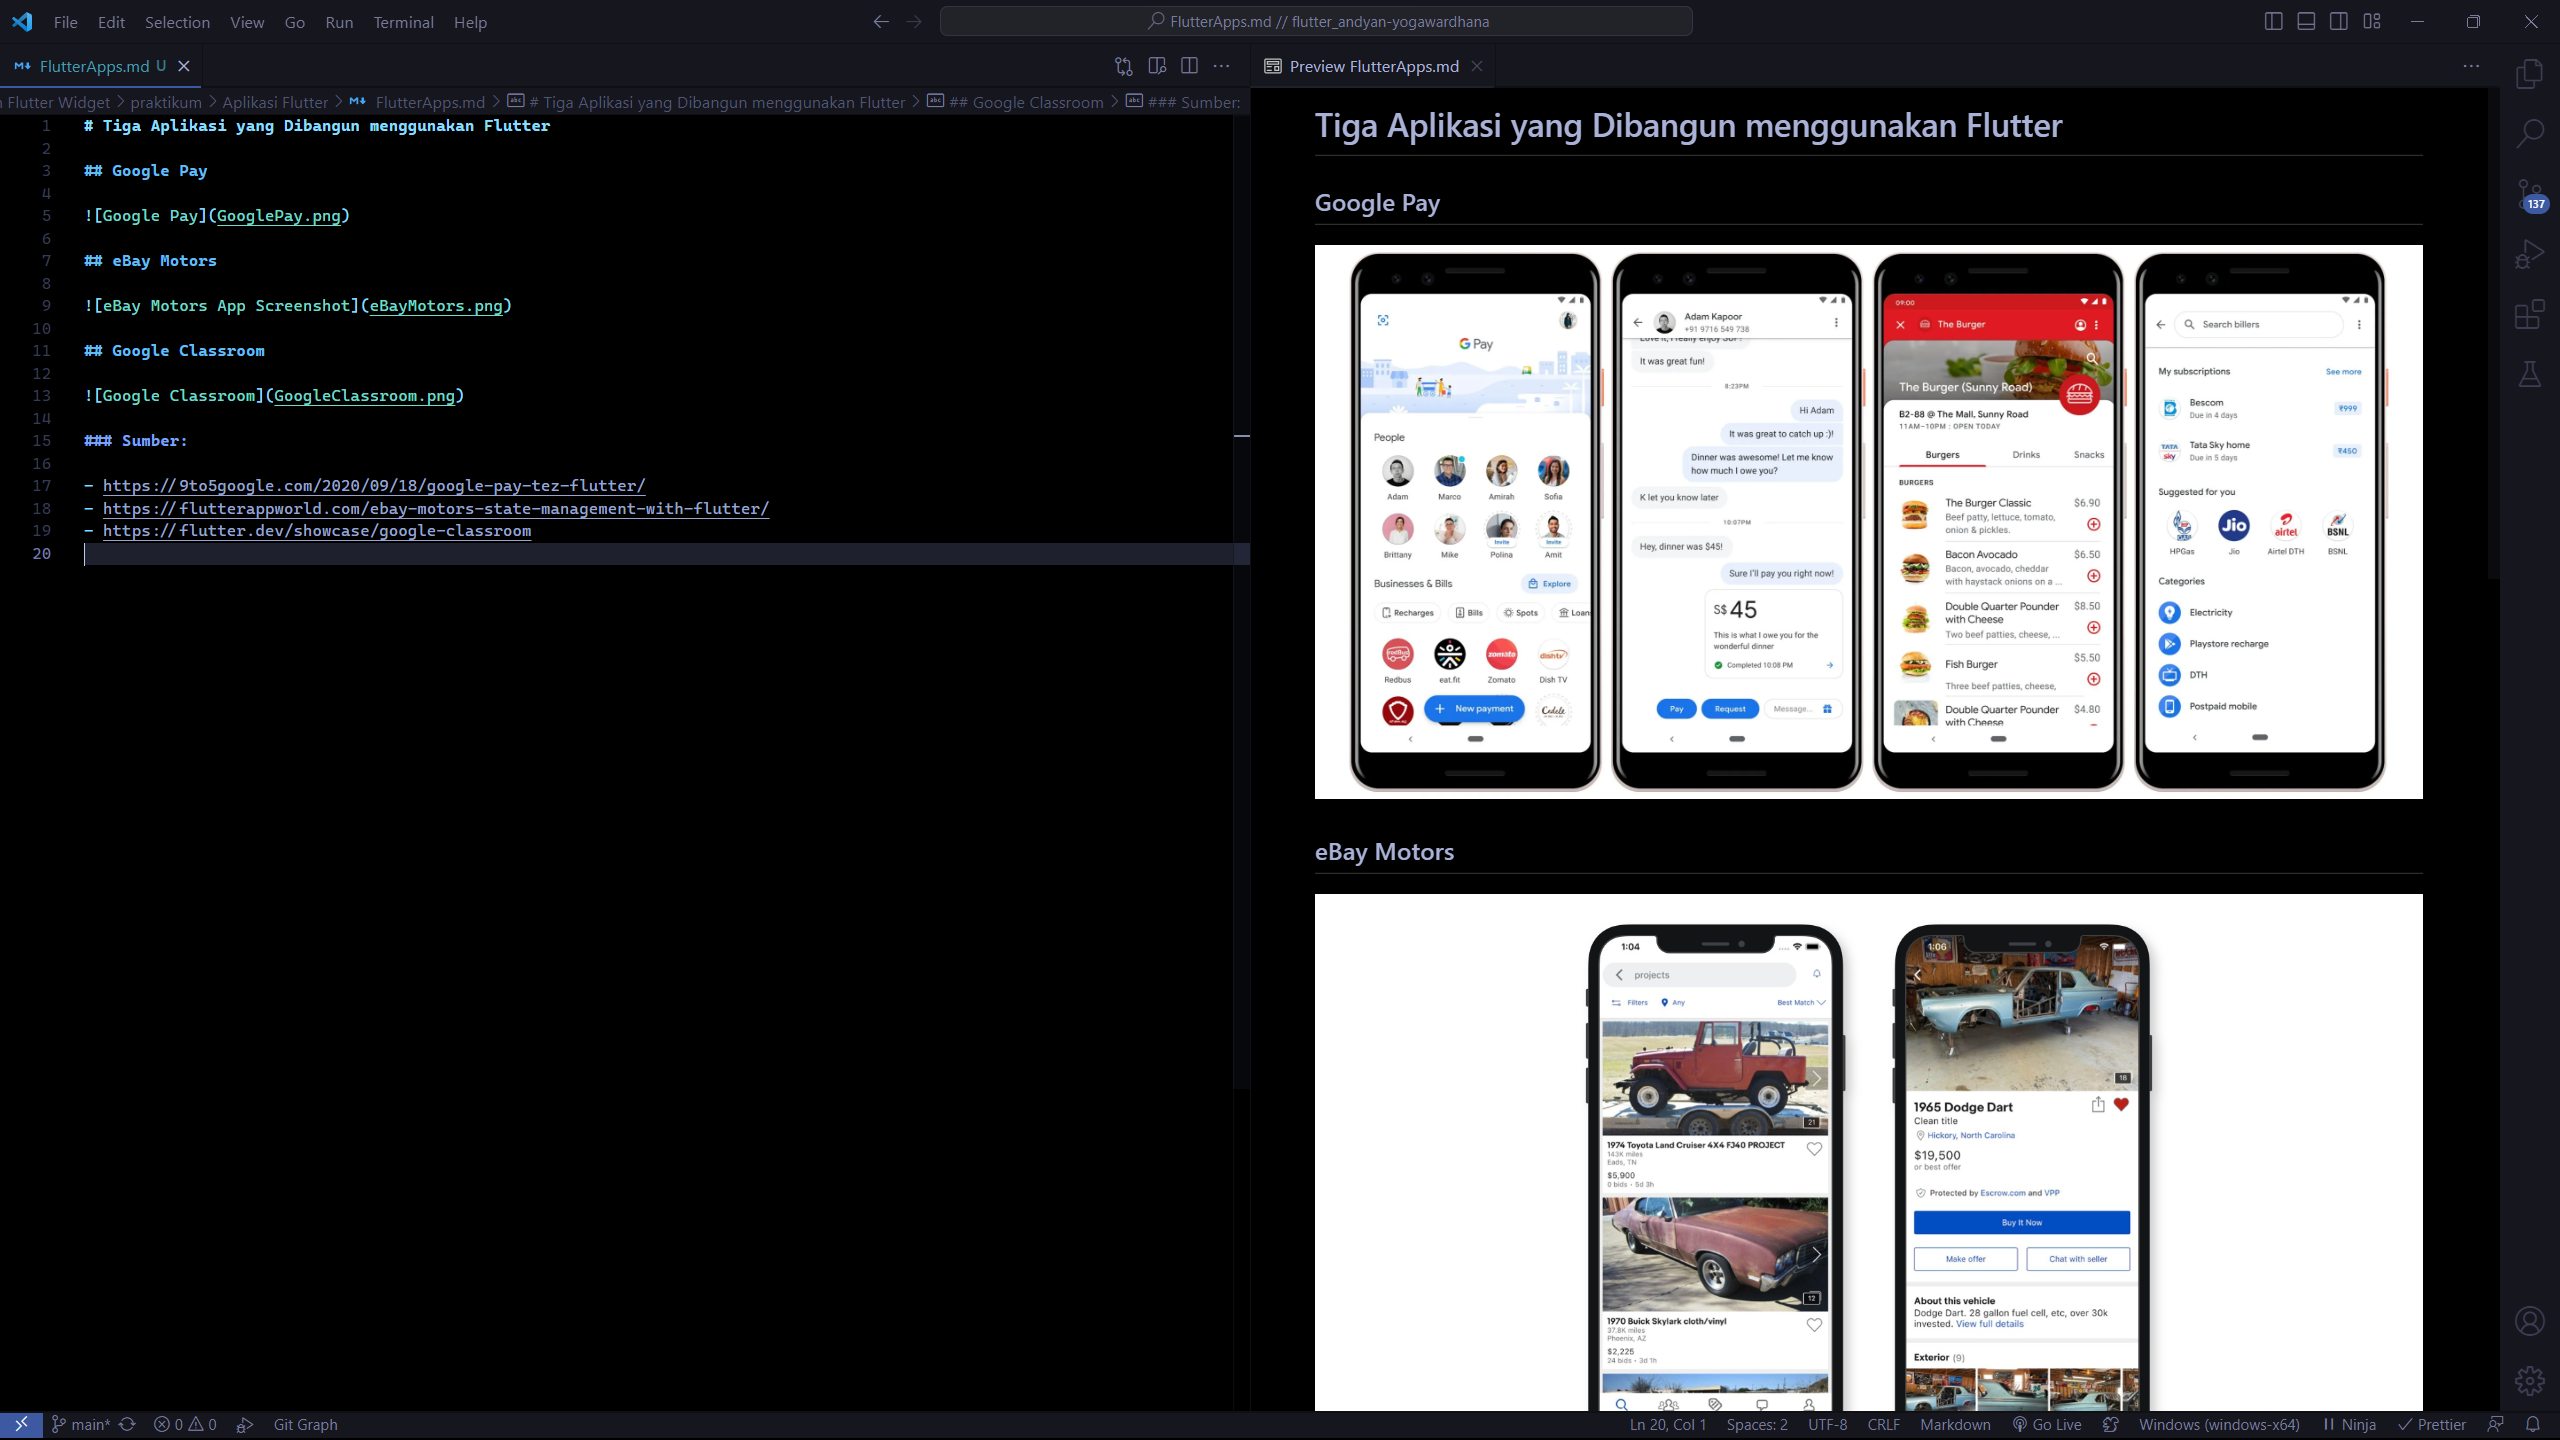
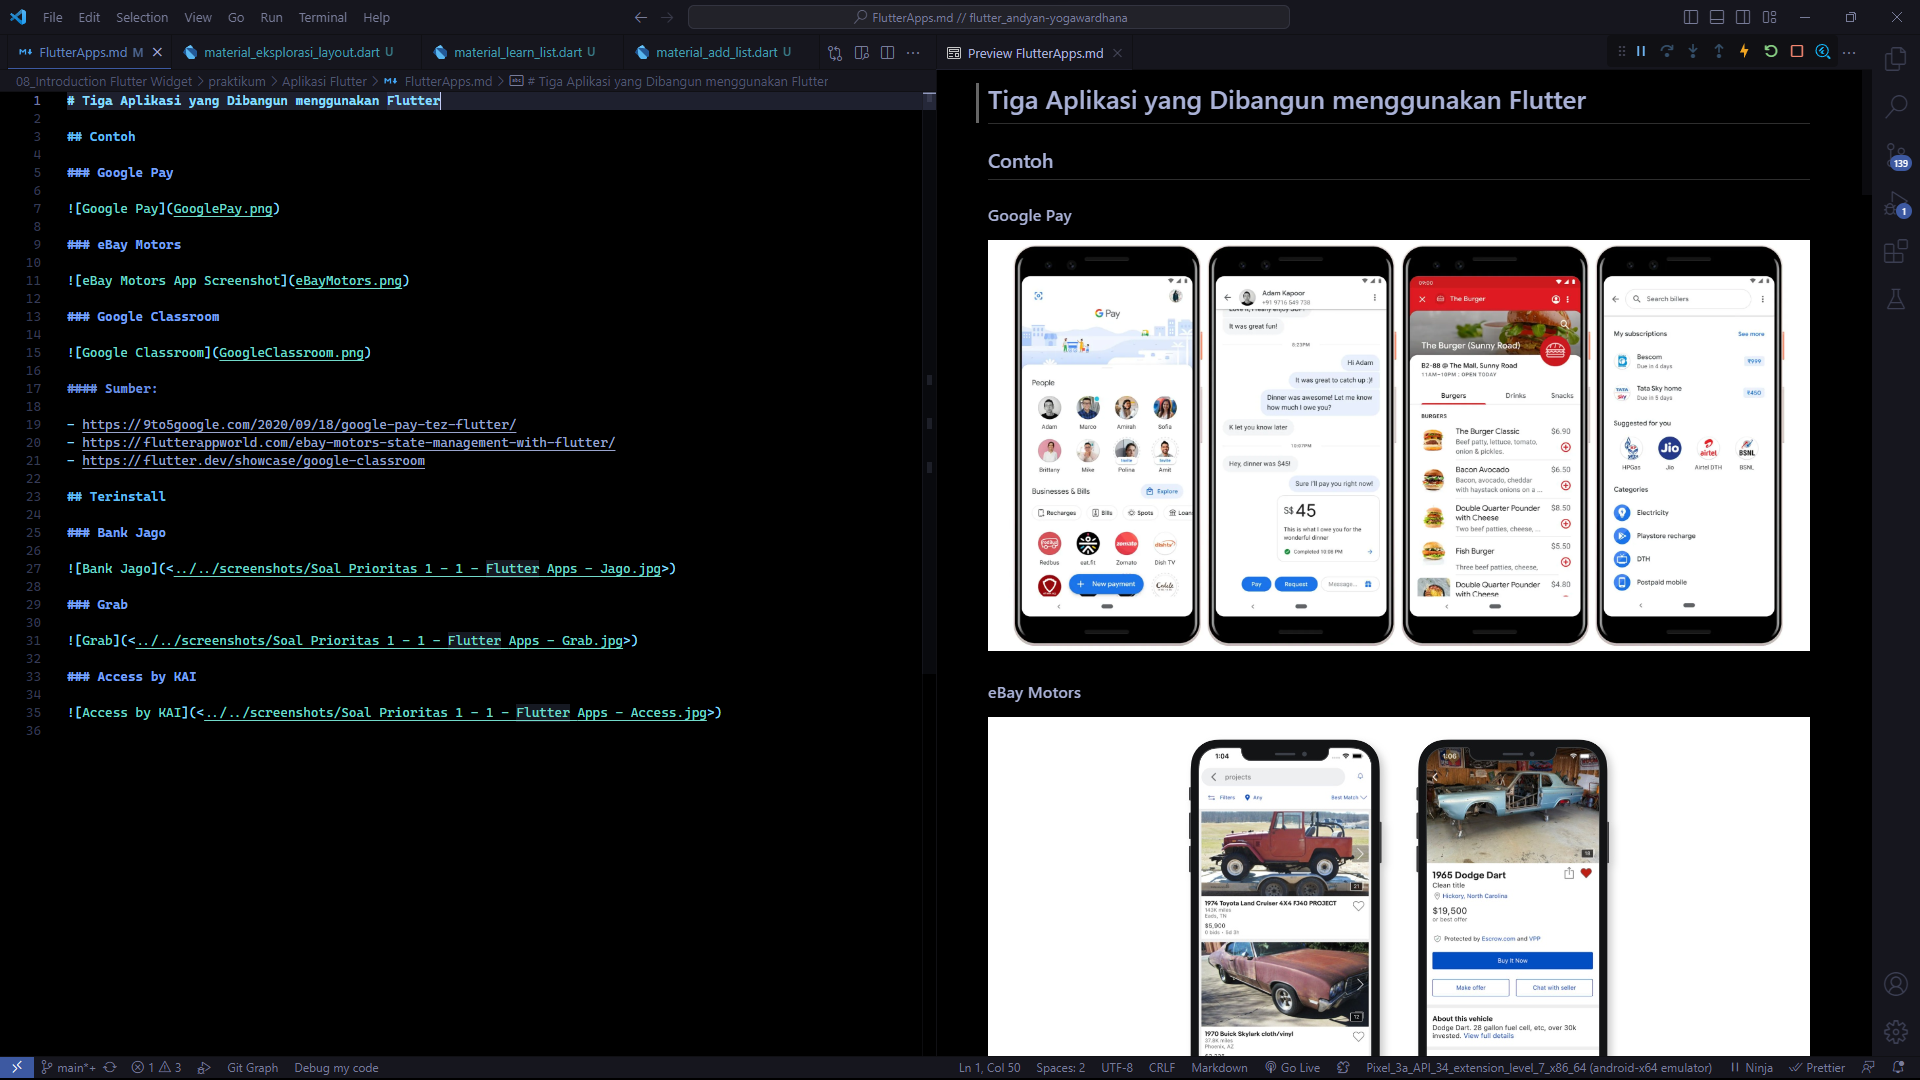
fix - tugas 8 screenshots & markdown

diff --git a/08_Introduction Flutter Widget/praktikum/Aplikasi Flutter/FlutterApps.md b/08_Introduction Flutter Widget/praktikum/Aplikasi Flutter/FlutterApps.md
@@ -1,19 +1,35 @@
 # Tiga Aplikasi yang Dibangun menggunakan Flutter
 
-## Google Pay
+## Contoh
+
+### Google Pay
 
 ![Google Pay](GooglePay.png)
 
-## eBay Motors
+### eBay Motors
 
 ![eBay Motors App Screenshot](eBayMotors.png)
 
-## Google Classroom
+### Google Classroom
 
 ![Google Classroom](GoogleClassroom.png)
 
-### Sumber:
+#### Sumber:
 
 - https://9to5google.com/2020/09/18/google-pay-tez-flutter/
 - https://flutterappworld.com/ebay-motors-state-management-with-flutter/
 - https://flutter.dev/showcase/google-classroom
+
+## Terinstall
+
+### Bank Jago
+
+![Bank Jago](<../../screenshots/Soal Prioritas 1 - 1 - Flutter Apps - Jago.jpg>)
+
+### Grab
+
+![Grab](<../../screenshots/Soal Prioritas 1 - 1 - Flutter Apps - Grab.jpg>)
+
+### Access by KAI
+
+![Access by KAI](<../../screenshots/Soal Prioritas 1 - 1 - Flutter Apps - Access.jpg>)
